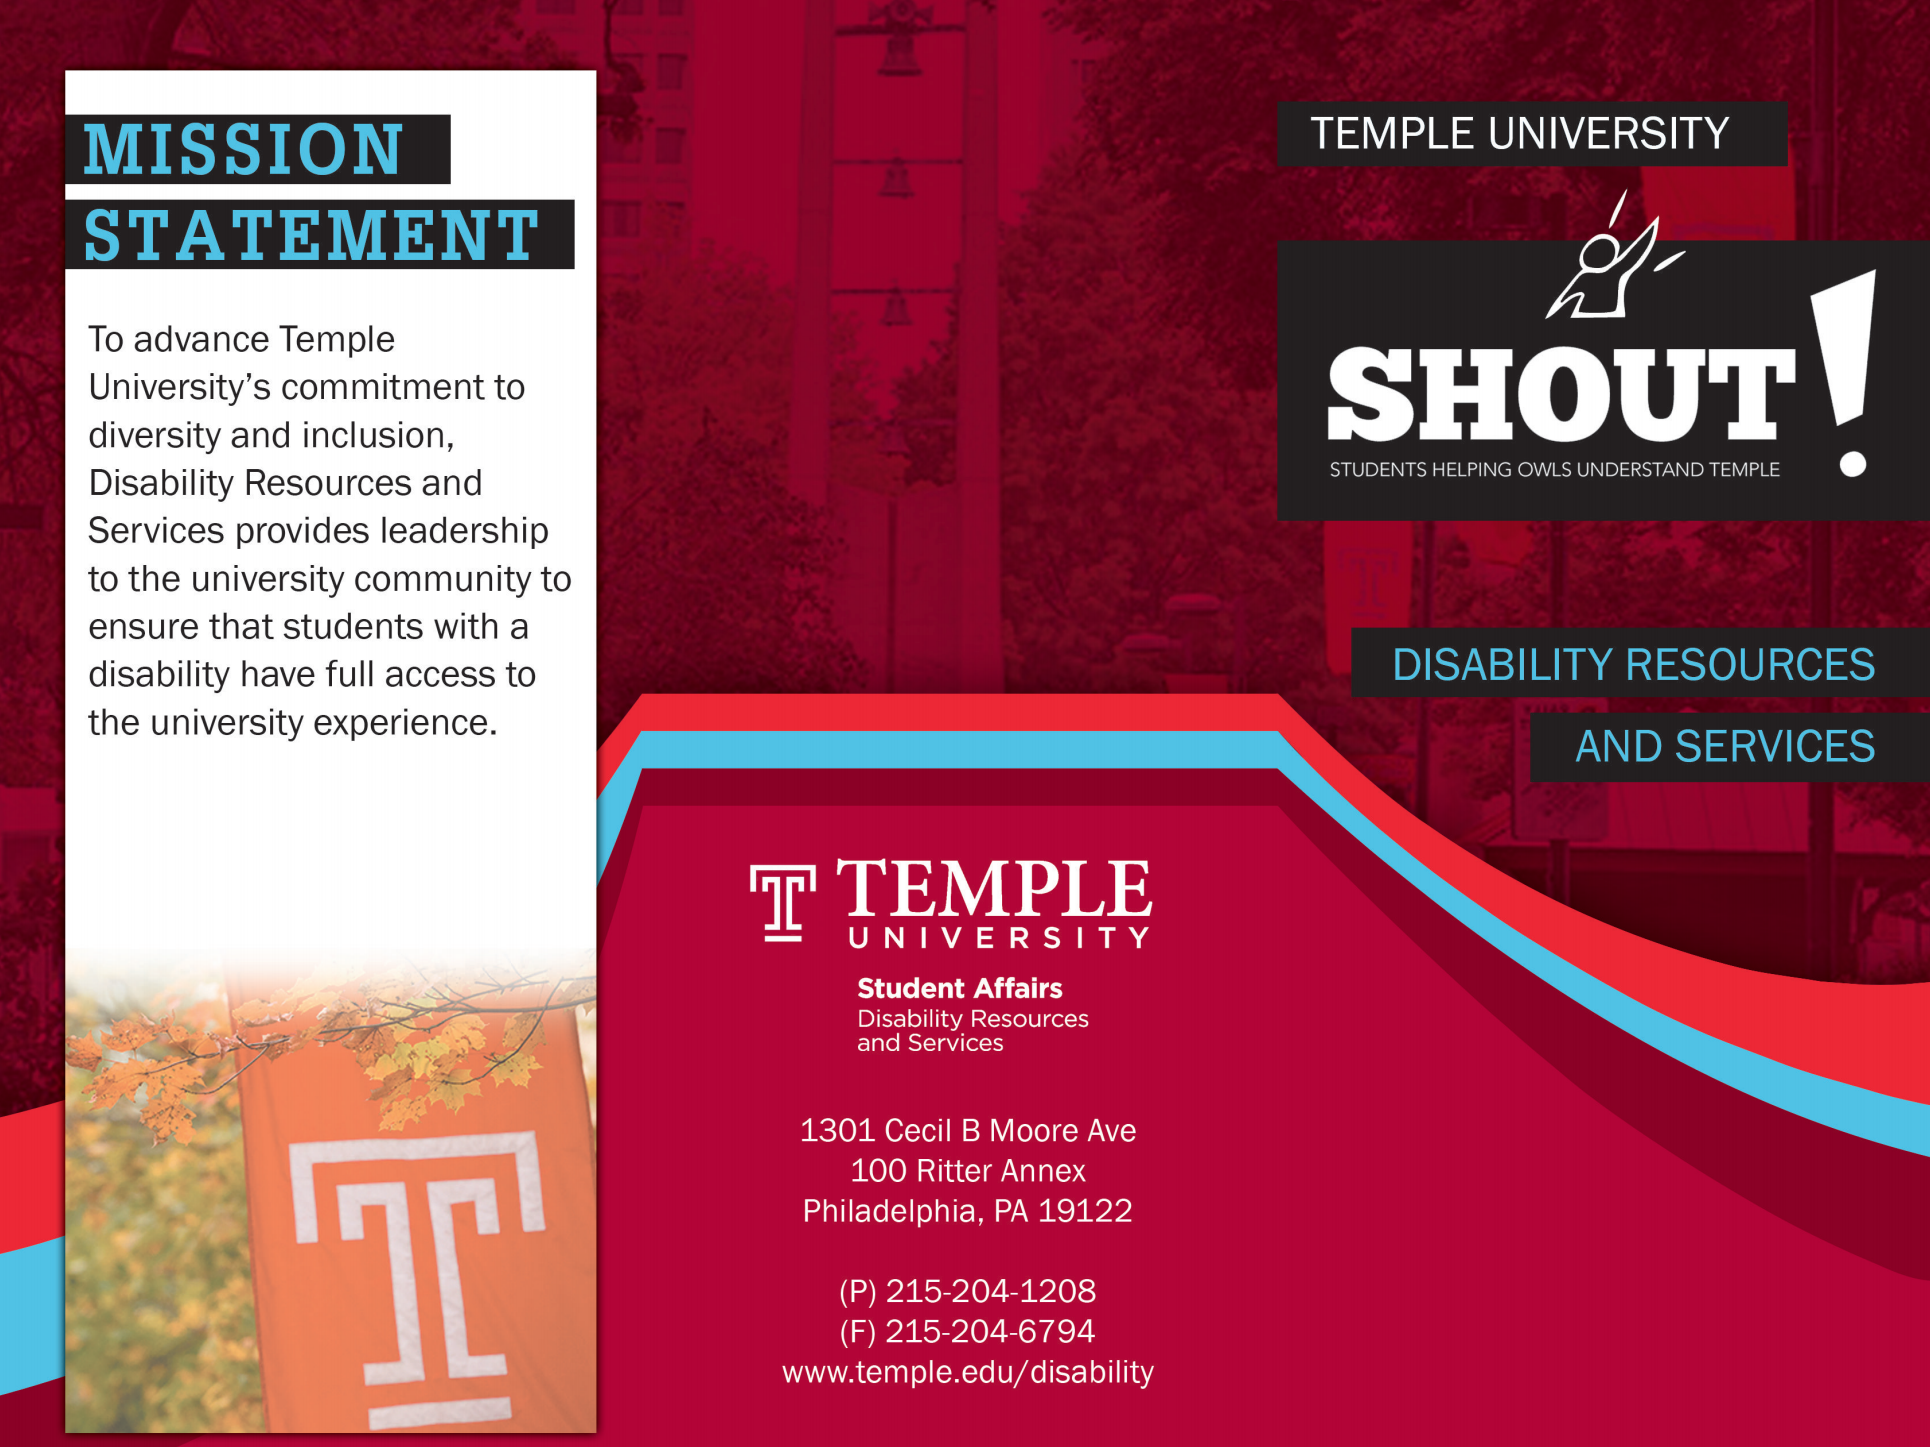
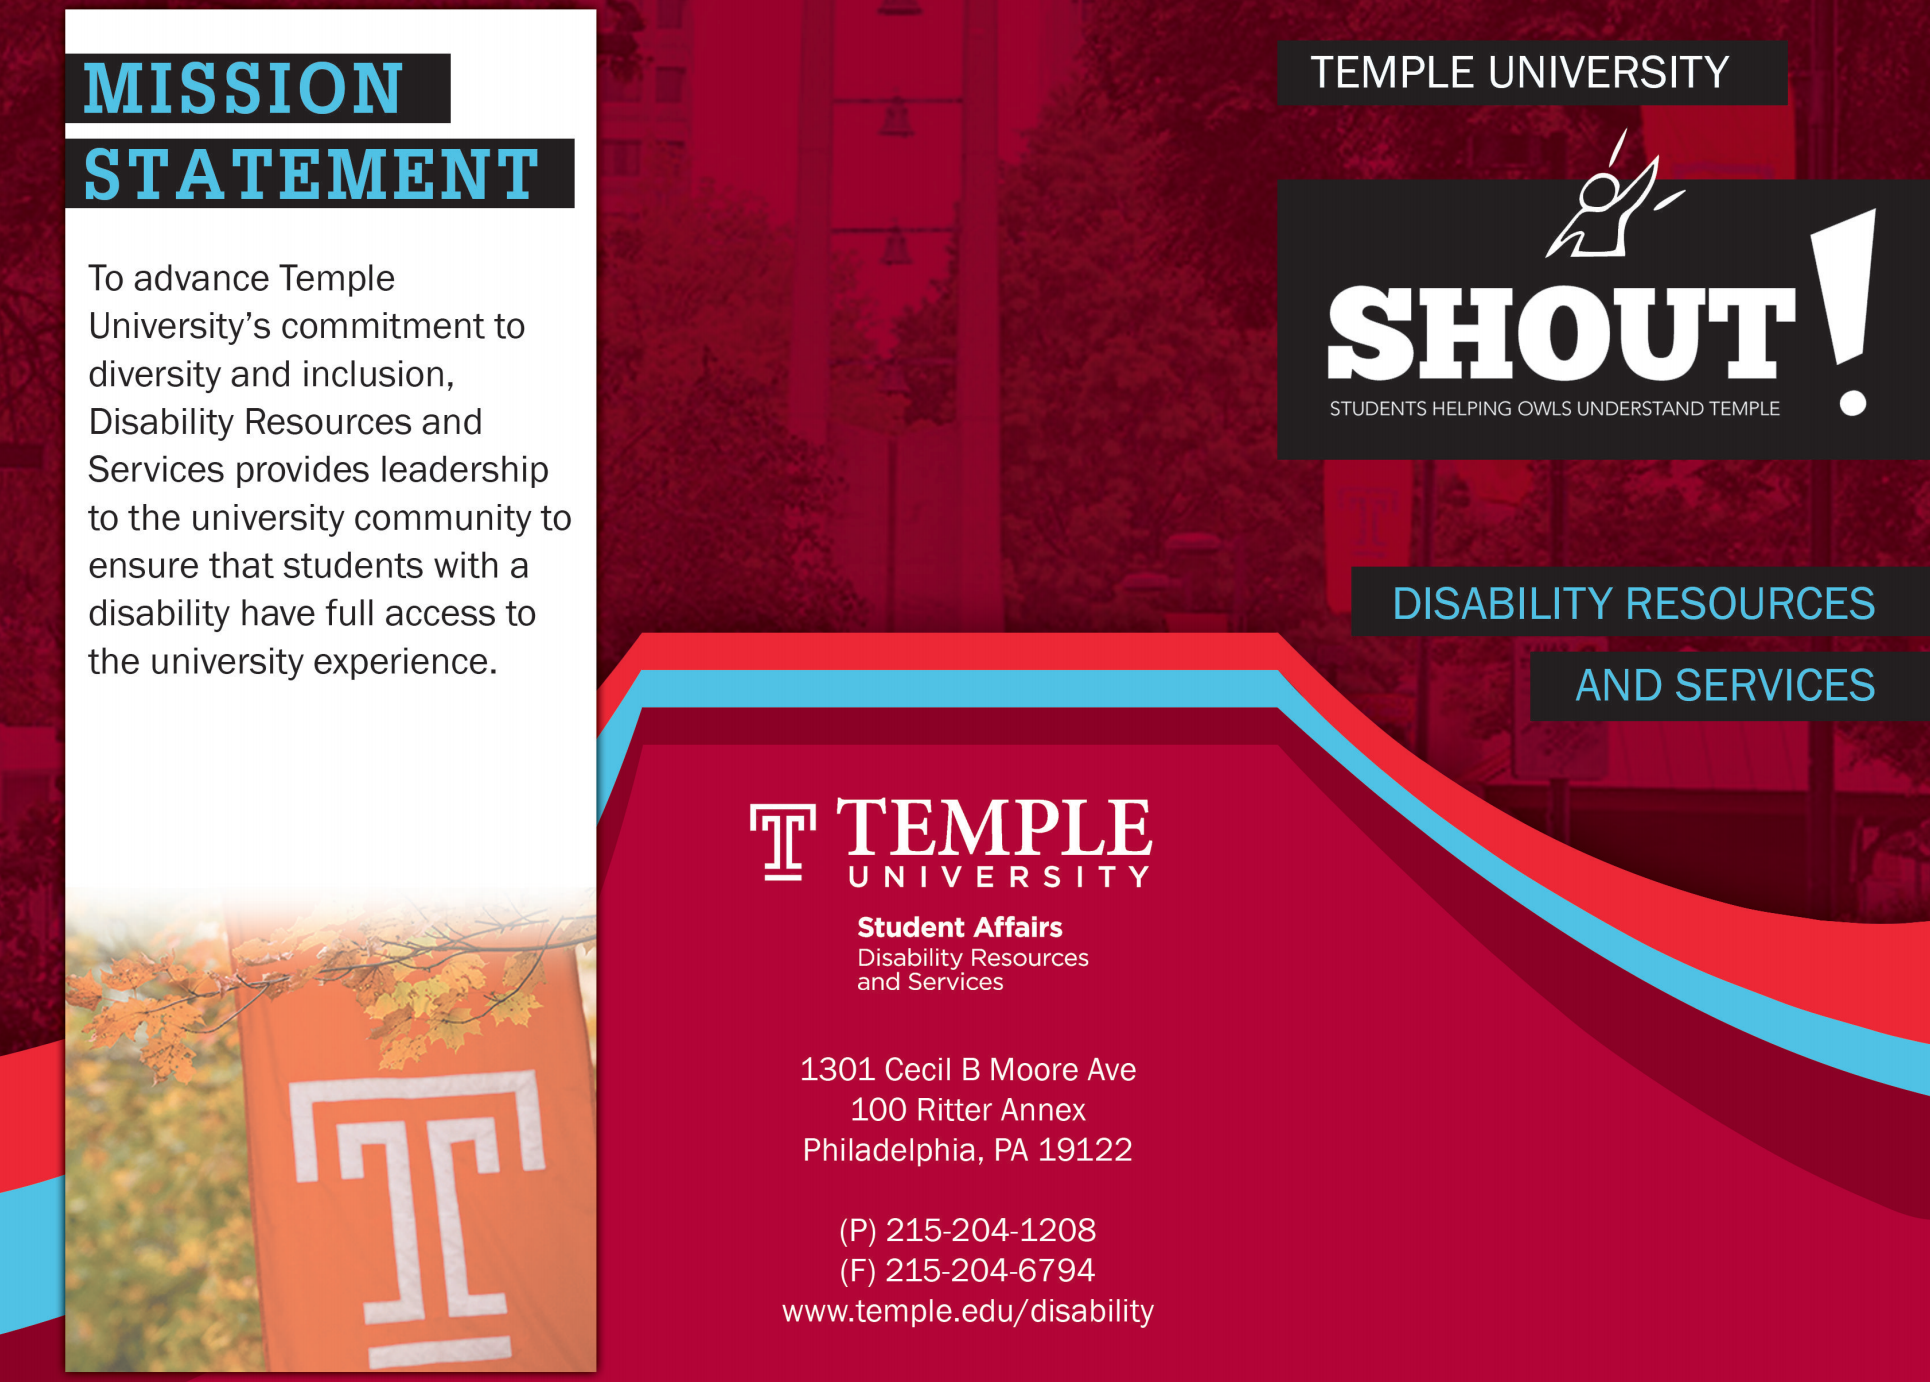
resize tudrs

diff --git a/portfolio.html b/portfolio.html
@@ -6,7 +6,7 @@
     <meta charset="utf-8">
     <meta http-equiv="X-UA-Compatible" content="IE=edge">
     <meta name="viewport" content="width=device-width, initial-scale=1">
-    <title>Host</title>
+    <title>CrystalFruit Portfolio</title>
 
     <!-- Bootstrap Core CSS -->
     <link href="css/bootstrap.min.css" rel="stylesheet">
